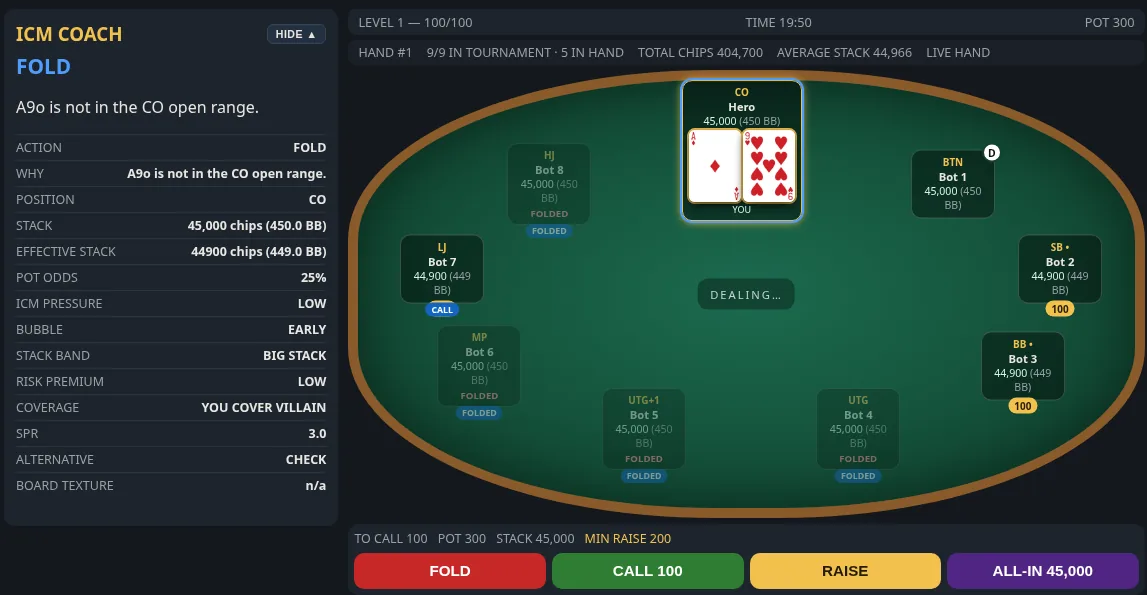
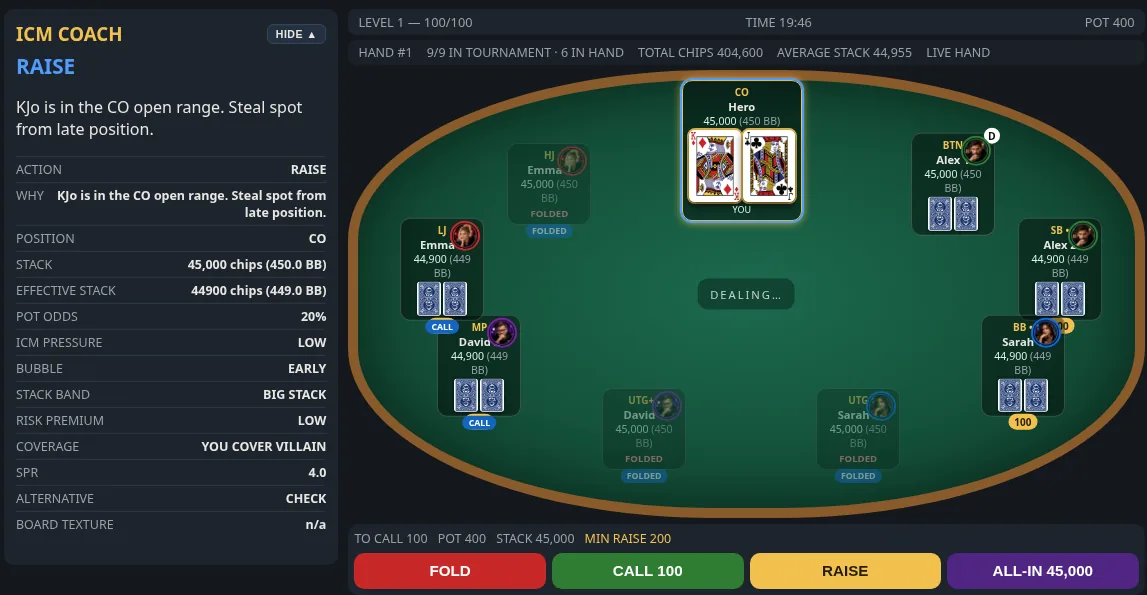
feat(landing): The Coach nav button, face-down quiz cards, line-up coach screenshot
Header order is now What is ICM / The Coach / How it works / Opponents /
FAQ (The Coach scrolls to #lp-coach). The TRY ONE SPOT cards start face
down (cards/back.png) and flip when the section scrolls into view. The
THE COACH screenshot was retaken with a bot lineup so the seats show the
Alex/Sarah/David/Emma portraits and face-down branded card backs (54 KB).

diff --git a/frontend/src/landing/LandingQuiz.tsx b/frontend/src/landing/LandingQuiz.tsx
@@ -1,15 +1,47 @@
-import { useState } from "react";
+import { useEffect, useState } from "react";
 import { LANDING_QUIZ_FACTS, LANDING_SPOT } from "./landingQuizData";
 
 /** A47 — TRY ONE SPOT: the pinned coach quiz. Both CALL and FOLD reveal the
  * same backend-computed answer (source: backend/tests/test_landing_spot.py):
  * the coach's action, the ICM pressure and a plain explanation, plus whether
- * the visitor's pick matched the coach. */
+ * the visitor's pick matched the coach. The hole cards start face down
+ * (cards/back.png) and flip when the section scrolls into view. */
+const QUIZ_CARDS = [
+  { face: "/cards/Ks.png", alt: "King of spades" },
+  { face: "/cards/Jh.png", alt: "Jack of hearts" },
+];
+
 export function LandingQuiz() {
   const [chosen, setChosen] = useState<"call" | "fold" | null>(null);
+  const [faceUp, setFaceUp] = useState(false);
   const facts = LANDING_QUIZ_FACTS;
   const picked = (name: "call" | "fold") => () => setChosen(name);
   const matched = chosen === facts.recommendedAction.toLowerCase();
+
+  useEffect(() => {
+    // Flip the cards when the quiz scrolls into view; without an observer
+    // (tests) flip immediately so the faces are rendered as before.
+    if (typeof IntersectionObserver === "undefined") {
+      setFaceUp(true);
+      return;
+    }
+    const quiz = document.getElementById("lp-quiz");
+    if (!quiz) {
+      setFaceUp(true);
+      return;
+    }
+    const observer = new IntersectionObserver(
+      (entries) => {
+        if (entries.some((entry) => entry.isIntersecting)) {
+          setFaceUp(true);
+          observer.disconnect();
+        }
+      },
+      { threshold: 0.4 },
+    );
+    observer.observe(quiz);
+    return () => observer.disconnect();
+  }, []);
 
   return (
     <section className="lp-section lp-band-soft" id="lp-quiz" aria-labelledby="lp-quiz-title" data-testid="landing-quiz">
@@ -17,9 +49,15 @@ export function LandingQuiz() {
         <h2 className="lp-section-title" id="lp-quiz-title">Try one spot</h2>
         <span className="lp-section-rule" aria-hidden="true" />
         <div className="lp-quiz-card" data-testid="landing-quiz-card">
-          <div className="lp-quiz-hand">
-            <img className="lp-quiz-card-img" src="/cards/Ks.png" alt="King of spades" />
-            <img className="lp-quiz-card-img" src="/cards/Jh.png" alt="Jack of hearts" />
+          <div className="lp-quiz-hand" data-testid="landing-quiz-hand">
+            {QUIZ_CARDS.map((card) => (
+              <img
+                key={card.face}
+                className={`lp-quiz-card-img ${faceUp ? "lp-quiz-card-up" : ""}`}
+                src={faceUp ? card.face : "/cards/back.png"}
+                alt={card.alt}
+              />
+            ))}
           </div>
           <ul className="lp-quiz-spot">
             {LANDING_SPOT.map((line) => (

diff --git a/frontend/tests/landing.test.tsx b/frontend/tests/landing.test.tsx
@@ -42,9 +42,9 @@ describe("public landing page (A47 rebuild)", () => {
     for (const needle of ["--lp-bg: #07080a", ".lp-header", "background: var(--lp-bg);"]) { expect(landingCss).toContain(needle); }
     expect(screen.getByTestId("landing-brand")).toBeInTheDocument();
     const navButtons = header.querySelectorAll("button.lp-nav-link");
-    expect(navButtons).toHaveLength(4);
+    expect(navButtons).toHaveLength(5);
     expect(Array.from(navButtons).map((b) => b.textContent)).toEqual([
-      "What is ICM", "How it works", "Opponents", "FAQ",
+      "What is ICM", "The Coach", "How it works", "Opponents", "FAQ",
     ]);
     expect(screen.getByTestId("landing-login")).toHaveAttribute("href", "/login");
     expect(screen.getByTestId("landing-signup")).toHaveAttribute("href", "/login");

diff --git a/frontend/src/styles/landing-quiz.css b/frontend/src/styles/landing-quiz.css
@@ -23,6 +23,18 @@
   filter: drop-shadow(0 6px 10px rgba(0, 0, 0, 0.55));
 }
 
+/* face-down hole cards: when the quiz scrolls into view the card turns over
+   (full 360 turn so the face is not mirrored) */
+.lp-quiz-card-up {
+  animation: lp-card-turnover 0.5s ease;
+}
+@keyframes lp-card-turnover {
+  0%   { transform: rotateY(0deg); }
+  45%  { transform: rotateY(92deg); opacity: 0.2; }
+  60%  { transform: rotateY(268deg); opacity: 0.2; }
+  100% { transform: rotateY(360deg); opacity: 1; }
+}
+
 .lp-quiz-spot {
   margin: 0 0 12px;
   padding: 0;

diff --git a/frontend/src/landing/LandingHeader.tsx b/frontend/src/landing/LandingHeader.tsx
@@ -4,6 +4,7 @@ import { scrollToSection } from "./scrollTo";
 
 const NAV_LINKS = [
   { label: "What is ICM", target: "lp-quiz" },
+  { label: "The Coach", target: "lp-coach" },
   { label: "How it works", target: "lp-how" },
   { label: "Opponents", target: "lp-opponents" },
   { label: "FAQ", target: "lp-faq" },

diff --git a/progress.md b/progress.md
@@ -1960,3 +1960,17 @@ Validation: backend 610 passed / 4 skipped (ruff + mypy clean); frontend
 208 passed (tsc, oxlint, vite build clean); the recorder ran end-to-end
 twice (reproducible) and the promo verified frame-by-frame (hero, quiz,
 hands, review, sidebar, champion).
+
+Second pass (2026-10-11): after merging FIX-POKERTABLE-LAYOUT-TEST (branded
+card backs + face-down BOT cards), the header gained "The Coach" (nav order:
+What is ICM / The Coach / How it works / Opponents / FAQ); the THE COACH
+screenshot was retaken with a bot-profile lineup so seats show
+Alex/Sarah/David/Emma portraits and face-down card backs (54 KB WebP); the
+TRY ONE SPOT cards start face down and flip when the section scrolls into
+view; and the promo was re-recorded at 1280x720 x1.5 device scale (1920x1080
+output), going straight from the quiz into login (the hero no longer
+appears twice), with exactly one caption per scene at its scene mark.
+Narration is REQUIRED female piper-tts voice en_US-hfc_female-medium
+(fallback en_US-amy-medium), scripted in scripts/record-promo/narration.json,
+AAC 128 kbps loudnorm ~-16 LUFS, no music. Final: 1:07, 2.7 MB MP4, 89 KB
+poster.

diff --git a/prime-agent-spec/atomic_plan.md b/prime-agent-spec/atomic_plan.md
@@ -867,3 +867,18 @@ Two steps, tested live in a browser.
   the landing demo slot points at them, the old clip and poster are
   deleted, and `npm run record:promo` re-runs the whole pipeline from an
   empty state.
+
+Second pass (2026-10-11, post-merge with branded card backs):
+- Header gains a "The Coach" button (What is ICM / The Coach / How it works
+  / Opponents / FAQ), scrolling to #lp-coach.
+- THE COACH screenshot retaken with a real bot lineup (Alex/Sarah/David/
+  Emma portraits and face-down branded card backs).
+- TRY ONE SPOT cards start face down (cards/back.png) and flip when the
+  section scrolls into view.
+- Promo re-record: 1280x720 viewport at deviceScaleFactor 1.5 (1920x1080
+  output), quiz goes straight to login (no second pass over the hero),
+  exactly one caption at a time tied to its scene mark, and REQUIRED female
+  narration via piper-tts (en_US-hfc_female-medium, fallback
+  en_US-amy-medium) driven by scripts/record-promo/narration.json; audio is
+  AAC 128 kbps loudnorm ~-16 LUFS, no music, each scene held at least its
+  line +0.5s.
